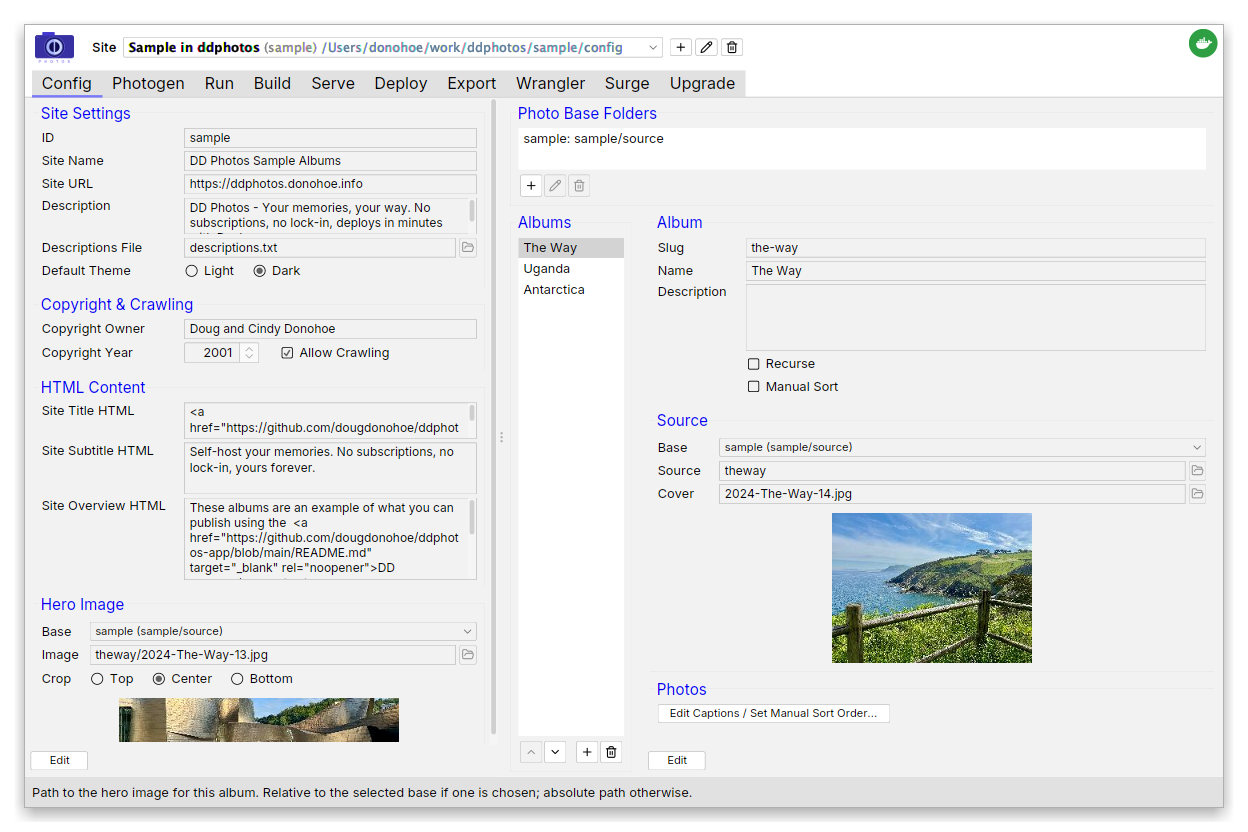
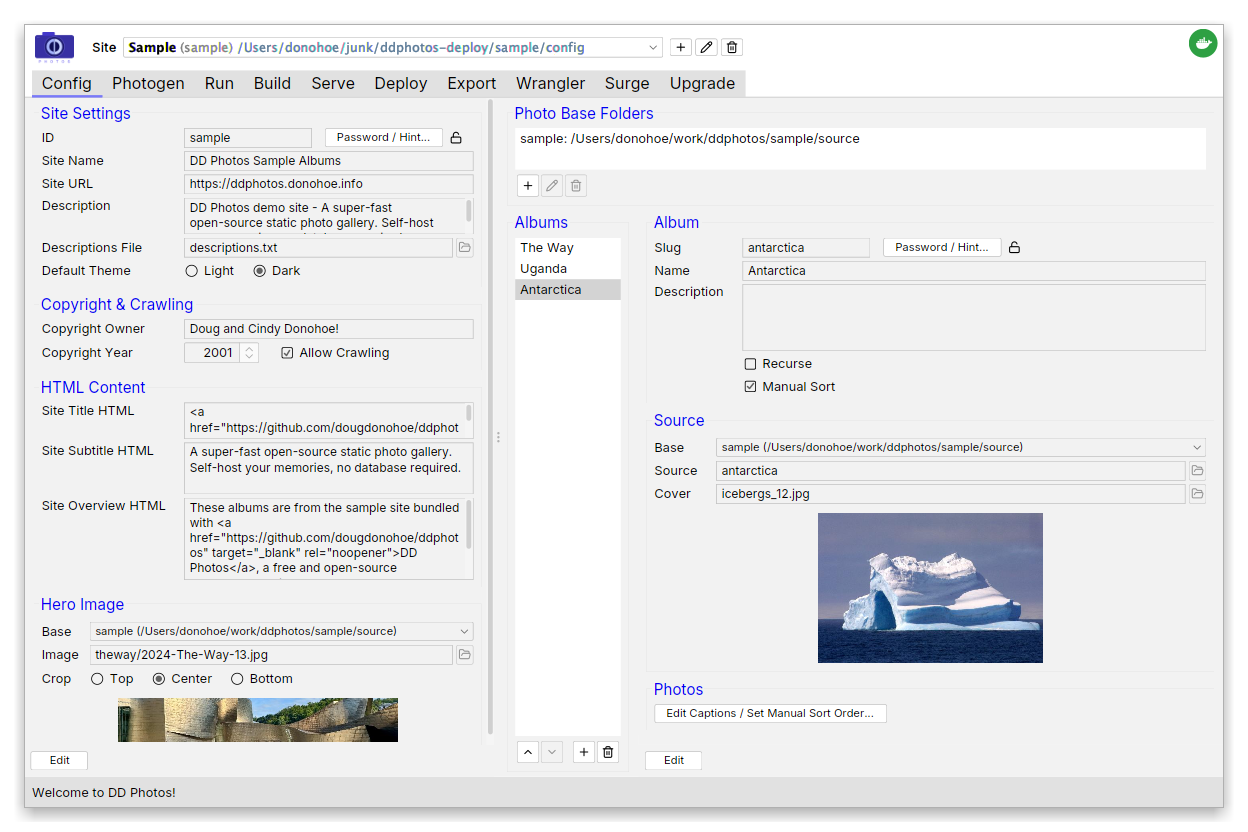
Bump node to v24 (#80)

diff --git a/CLAUDE.md b/CLAUDE.md
@@ -19,6 +19,18 @@ The Go structs in `pkg/photogen/json.go` (`AlbumIndex`, `AlbumSummary`, `PhotoIn
 define the JSON schema consumed by the frontend. Their TypeScript counterparts live in
 `web/src/lib/types.ts`. **When changing a JSON field in either place, update the other.**
 
+## Node/npm version sync requirement
+
+`web/.nvmrc` (Node major) and `web/.npm-version` (exact npm version) are the single sources of
+truth. Everything else reads them: the Makefile, `bin/docker-push.sh`, `bin/run-tests.sh`, and the
+three `setup-node` steps in `.github/workflows/ci.yml`. **Do not hardcode either version anywhere
+else.**
+
+One exception, which must be updated by hand: the `engines.node` field in `web/package.json`.
+Paired with `engine-strict=true` in `web/.npmrc`, it makes `npm install`/`npm ci` hard-fail on the
+wrong Node, so a machine whose `nvm` default has drifted cannot silently install with it.
+**When bumping `web/.nvmrc`, bump `engines.node` to match.**
+
 ## Commands
 
 ```bash
